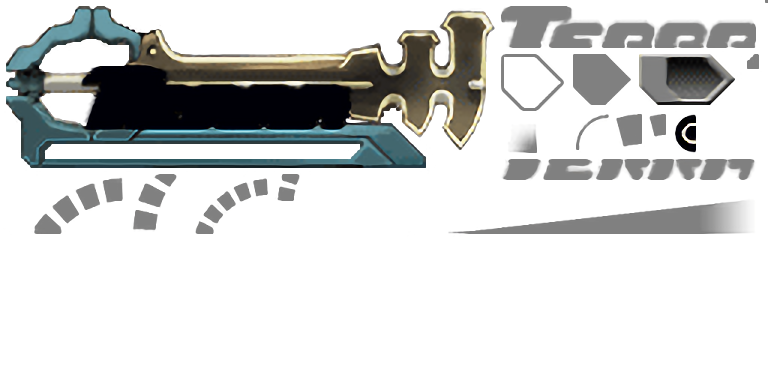
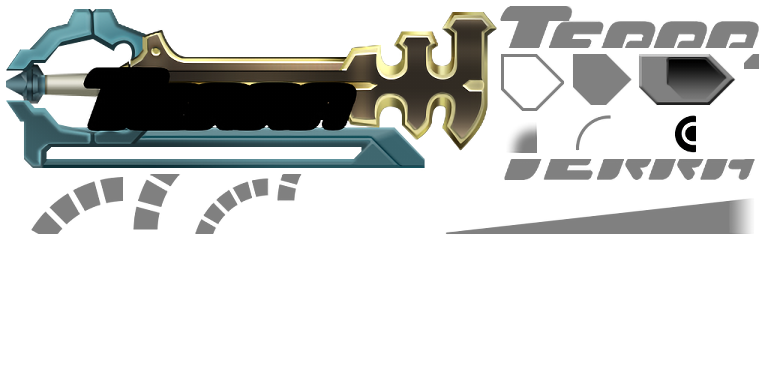
1.3.1 - Terra's Ends of Earth keyblade remade by ZeroFX using the KH2's texture! Check how it looks in the album! Meanwhile, a few D-Links, and a Command Style was modified.

diff --git a/readme.md b/readme.md
@@ -1,5 +1,7 @@
 # Birth by Sleep HD ReMix
-A Texture Pack for Kingdom Hearts Birth by Sleep Final Mix, for use in the PPSSPP Emulator.
+<br>A Texture Pack for Kingdom Hearts Birth by Sleep Final Mix, for use in the PPSSPP Emulator.
+
+<br><b><i>Contact on the bottom.</i></b>
 
 <b>Warning:</b>
 This Texture Pack was made for the <b>Japanese/English patched Kingdom Hearts Birth by Sleep FINAL MIX.</b>
@@ -11,9 +13,11 @@ This Texture Pack was made for the <b>Japanese/English patched Kingdom Hearts Bi
 
 ![There Should Be a Fancy Image Here](https://i.imgur.com/0v2XaQ1.png)
 
-# Latest Version: 1.3.0
+# Latest Version: 1.3.1
 
 Original Forum Thread: https://forums.ppsspp.org/showthread.php?tid=24126
+
+Album: https://imgur.com/a/0YzyF1t
 
 # Download Links:
 
